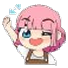
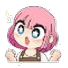
fix(ui): fix Kira pet click state rendering and recrop full-body happy celebration pose

diff --git a/frontend/src/index.css b/frontend/src/index.css
@@ -210,12 +210,12 @@ img {
 }
 
 /* ==========================================================================
-   Kira AI Anime Girl Pet Sprite & Animations
+   Kira AI Anime Girl Pet Animations
    ========================================================================== */
 .kira-pet-container {
   display: inline-block;
   user-select: none;
-  filter: drop-shadow(0 4px 6px rgba(0, 0, 0, 0.2));
+  filter: drop-shadow(0 4px 6px rgba(0, 0, 0, 0.25));
   transition: transform 0.2s cubic-bezier(0.34, 1.56, 0.64, 1);
 }
 
@@ -223,43 +223,24 @@ img {
   transform: scale(1.08) translateY(-2px);
 }
 
-.kira-pet-sprite {
-  width: 62px;
-  height: 62px;
-  background-image: url('/stickers/kira_spritesheet.webp');
-  background-size: 400% 100%;
-  background-repeat: no-repeat;
-  image-rendering: auto;
-}
-
-@media (min-width: 640px) {
-  .kira-pet-sprite {
-    width: 68px;
-    height: 68px;
-  }
-}
-
-/* State: idle (Frame 0: 0% 50%) */
+/* State: idle with gentle swaying breathing loop */
 .kira-pet-idle {
-  background-position: 0% 50%;
   animation: kira-sway 3.2s ease-in-out infinite;
 }
 
-/* State: talking (Frame 0 to Frame 1: 33.333% 50%) */
+/* State: talking with animated speech bob */
 .kira-pet-talking {
-  animation: kira-talk-mouth 0.26s steps(1) infinite, kira-talk-bob 0.52s ease-in-out infinite;
+  animation: kira-talk-bob 0.45s ease-in-out infinite;
 }
 
-/* State: thinking (Frame 2: 66.666% 50%) */
+/* State: thinking with head-tilt floating */
 .kira-pet-thinking {
-  background-position: 66.666% 50%;
   animation: kira-think-float 2.4s ease-in-out infinite;
 }
 
-/* State: happy (Frame 3: 100% 50%) */
+/* State: happy with joyful celebration bounce */
 .kira-pet-happy {
-  background-position: 100% 50%;
-  animation: kira-happy-bounce 0.7s ease-in-out infinite;
+  animation: kira-happy-bounce 0.65s cubic-bezier(0.34, 1.56, 0.64, 1) infinite;
 }
 
 @keyframes kira-sway {
@@ -274,21 +255,12 @@ img {
   }
 }
 
-@keyframes kira-talk-mouth {
-  0%, 100% {
-    background-position: 0% 50%;
-  }
-  50% {
-    background-position: 33.333% 50%;
-  }
-}
-
 @keyframes kira-talk-bob {
   0%, 100% {
     transform: translateY(0px) scale(1);
   }
   50% {
-    transform: translateY(-2.5px) scale(1.02);
+    transform: translateY(-3px) scale(1.03);
   }
 }
 
@@ -297,7 +269,7 @@ img {
     transform: translateY(0px) rotate(0deg);
   }
   50% {
-    transform: translateY(-3.5px) rotate(-3deg);
+    transform: translateY(-4px) rotate(-3.5deg);
   }
 }
 
@@ -306,6 +278,6 @@ img {
     transform: translateY(0px) scale(1);
   }
   50% {
-    transform: translateY(-5px) scale(1.06);
+    transform: translateY(-7px) scale(1.08);
   }
 }

diff --git a/frontend/src/components/chat/KiraAvatarPet.jsx b/frontend/src/components/chat/KiraAvatarPet.jsx
@@ -10,6 +10,13 @@ import React, { useState } from 'react';
  * - 'thinking': Head-tilted with question mark while typing/pondering
  * - 'happy': Joyful celebration bounce after finishing message or on click
  */
+const STATE_IMAGES = {
+  idle: '/stickers/kira_idle.webp',
+  talking: '/stickers/kira_talking.webp',
+  thinking: '/stickers/kira_thinking.webp',
+  happy: '/stickers/kira_happy.webp'
+};
+
 const KiraAvatarPet = ({ state = 'idle', onClick, className = '' }) => {
   const [isClicked, setIsClicked] = useState(false);
 
@@ -30,6 +37,7 @@ const KiraAvatarPet = ({ state = 'idle', onClick, className = '' }) => {
   };
 
   const activeAnimationClass = stateClassMap[activeState] || 'kira-pet-idle';
+  const imageSrc = STATE_IMAGES[activeState] || STATE_IMAGES.idle;
 
   return (
     <div
@@ -38,15 +46,19 @@ const KiraAvatarPet = ({ state = 'idle', onClick, className = '' }) => {
       className={`kira-pet-container relative group cursor-pointer select-none ${className}`}
     >
       {/* Reaction badge / speech bubble tooltip on hover */}
-      <div className="absolute -top-6 left-1/2 -translate-x-1/2 opacity-0 group-hover:opacity-100 transition-all duration-200 pointer-events-none z-30 whitespace-nowrap bg-black/80 backdrop-blur-md text-white text-[10px] font-semibold px-2 py-0.5 rounded-full shadow-lg border border-white/10 scale-95 group-hover:scale-100">
+      <div className="absolute -top-6 left-1/2 -translate-x-1/2 opacity-0 group-hover:opacity-100 transition-all duration-200 pointer-events-none z-30 whitespace-nowrap bg-black/85 backdrop-blur-md text-white text-[10px] font-semibold px-2 py-0.5 rounded-full shadow-lg border border-white/10 scale-95 group-hover:scale-100">
         {activeState === 'thinking' && '💭 Thinking...'}
         {activeState === 'talking' && '💬 Kira speaking'}
         {activeState === 'happy' && '✨ Yay!'}
         {activeState === 'idle' && '🌸 Kira'}
       </div>
 
-      {/* Anime Girl Sprite */}
-      <div className={`kira-pet-sprite ${activeAnimationClass}`} />
+      {/* Anime Girl Character */}
+      <img
+        src={imageSrc}
+        alt="Kira Pet"
+        className={`w-[60px] h-[60px] sm:w-[66px] sm:h-[66px] object-contain drop-shadow-md select-none pointer-events-none transition-transform duration-200 ${activeAnimationClass}`}
+      />
     </div>
   );
 };
